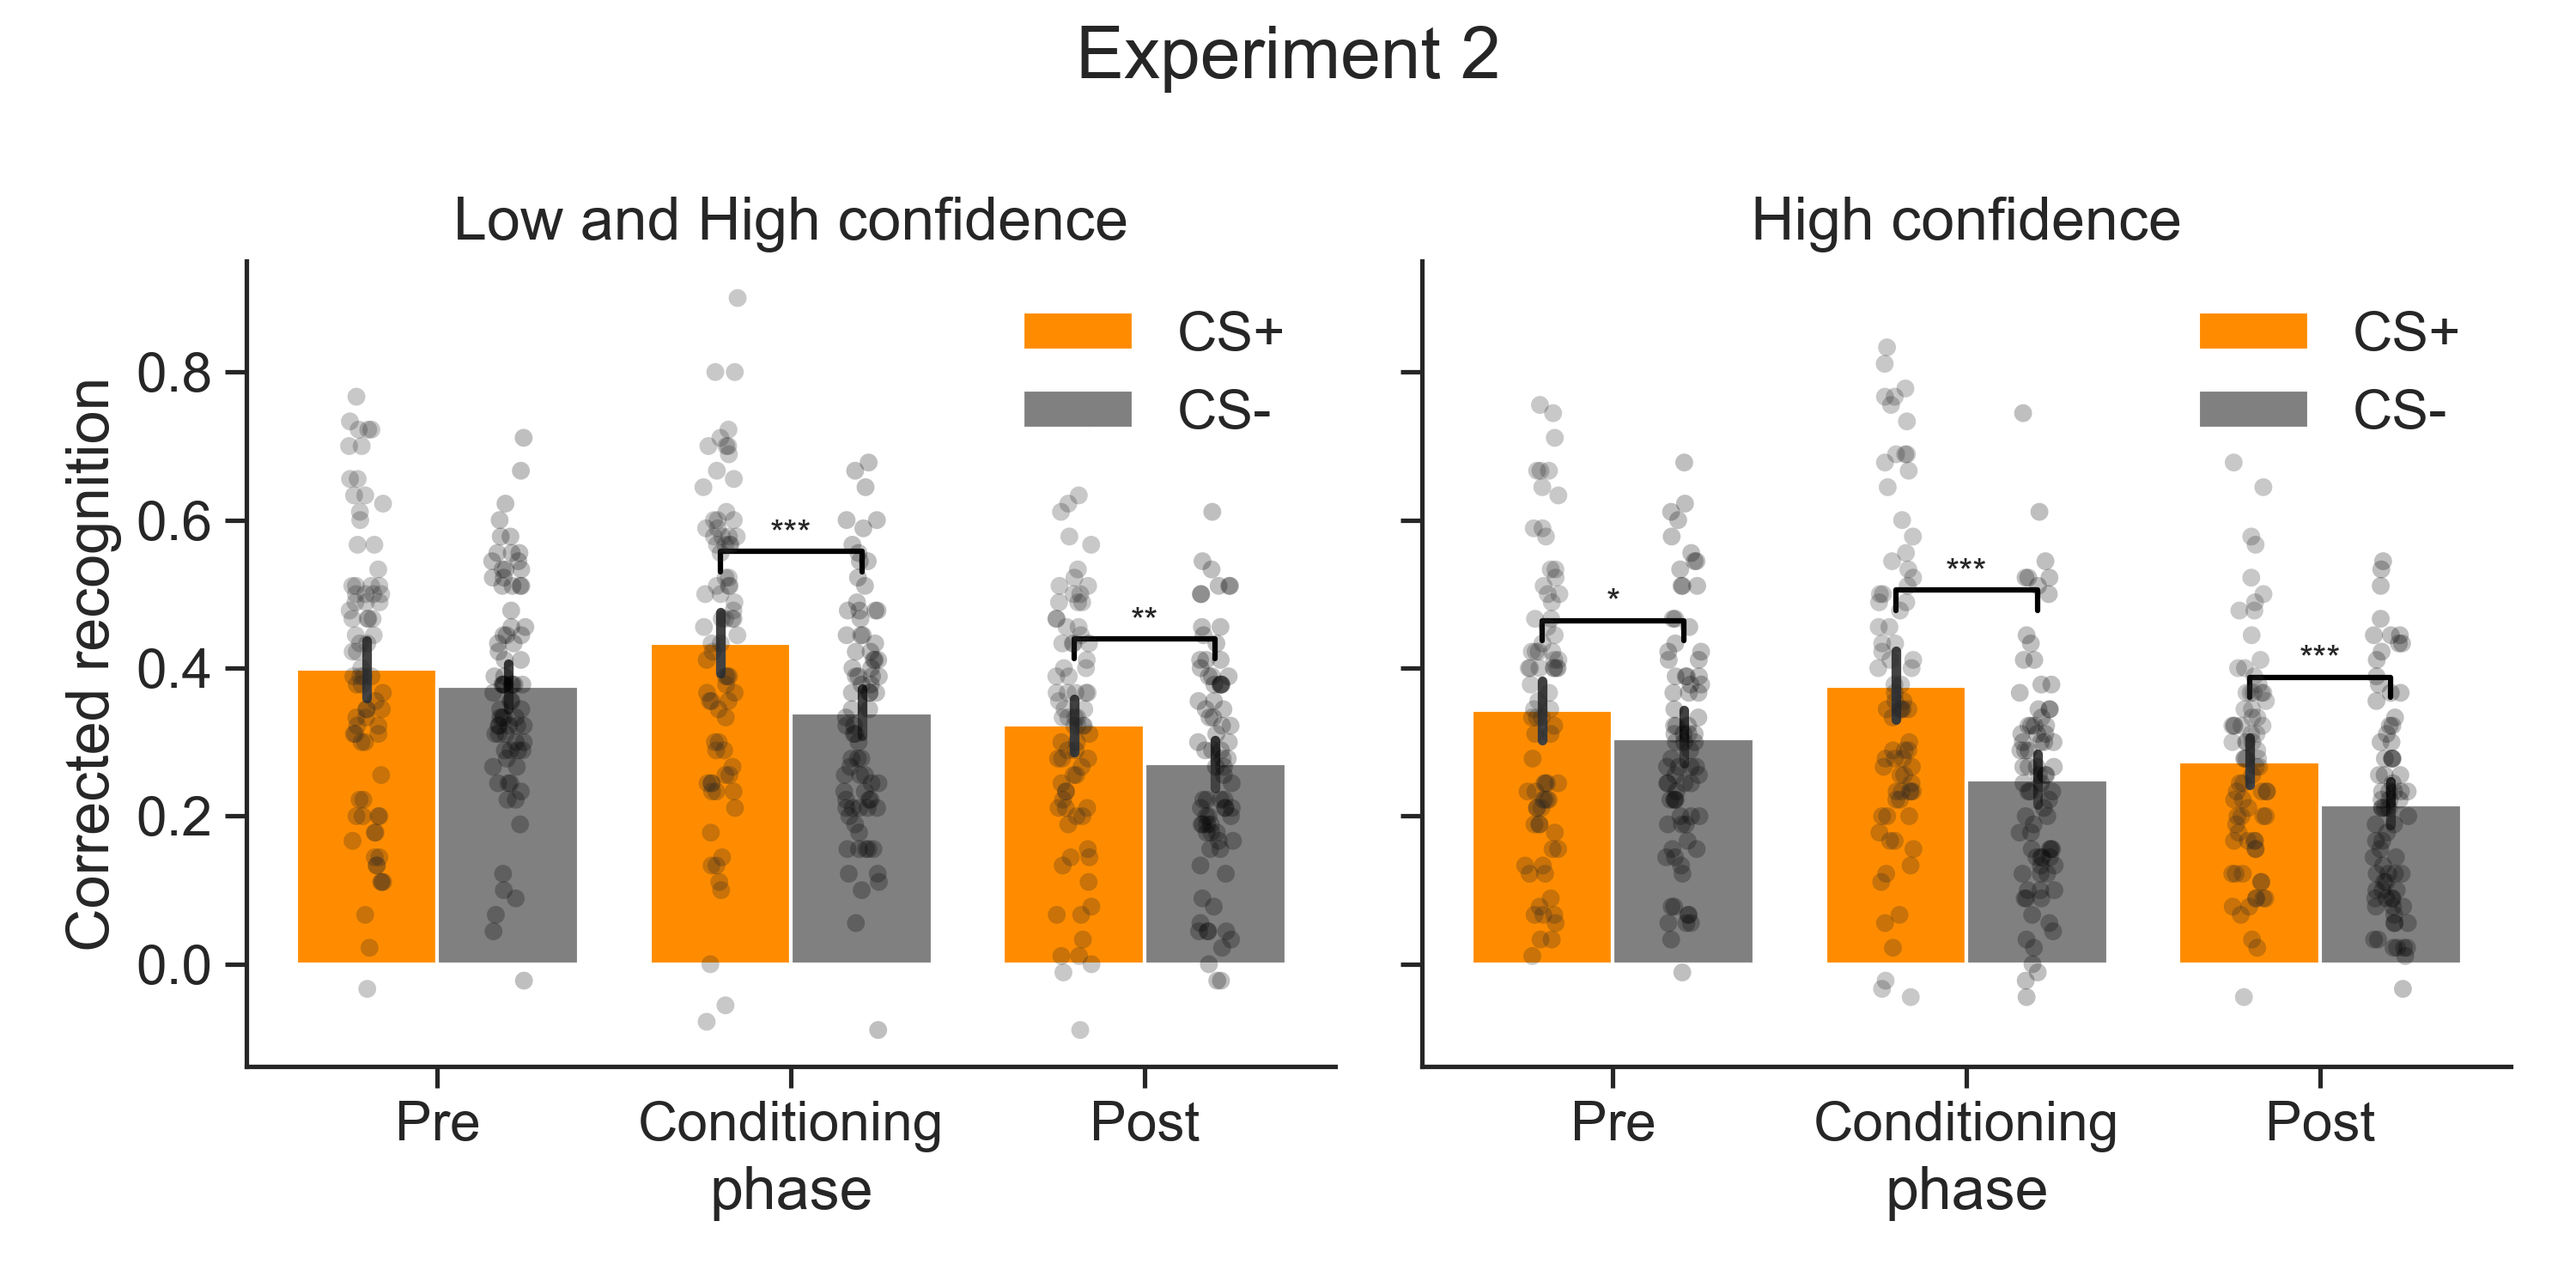
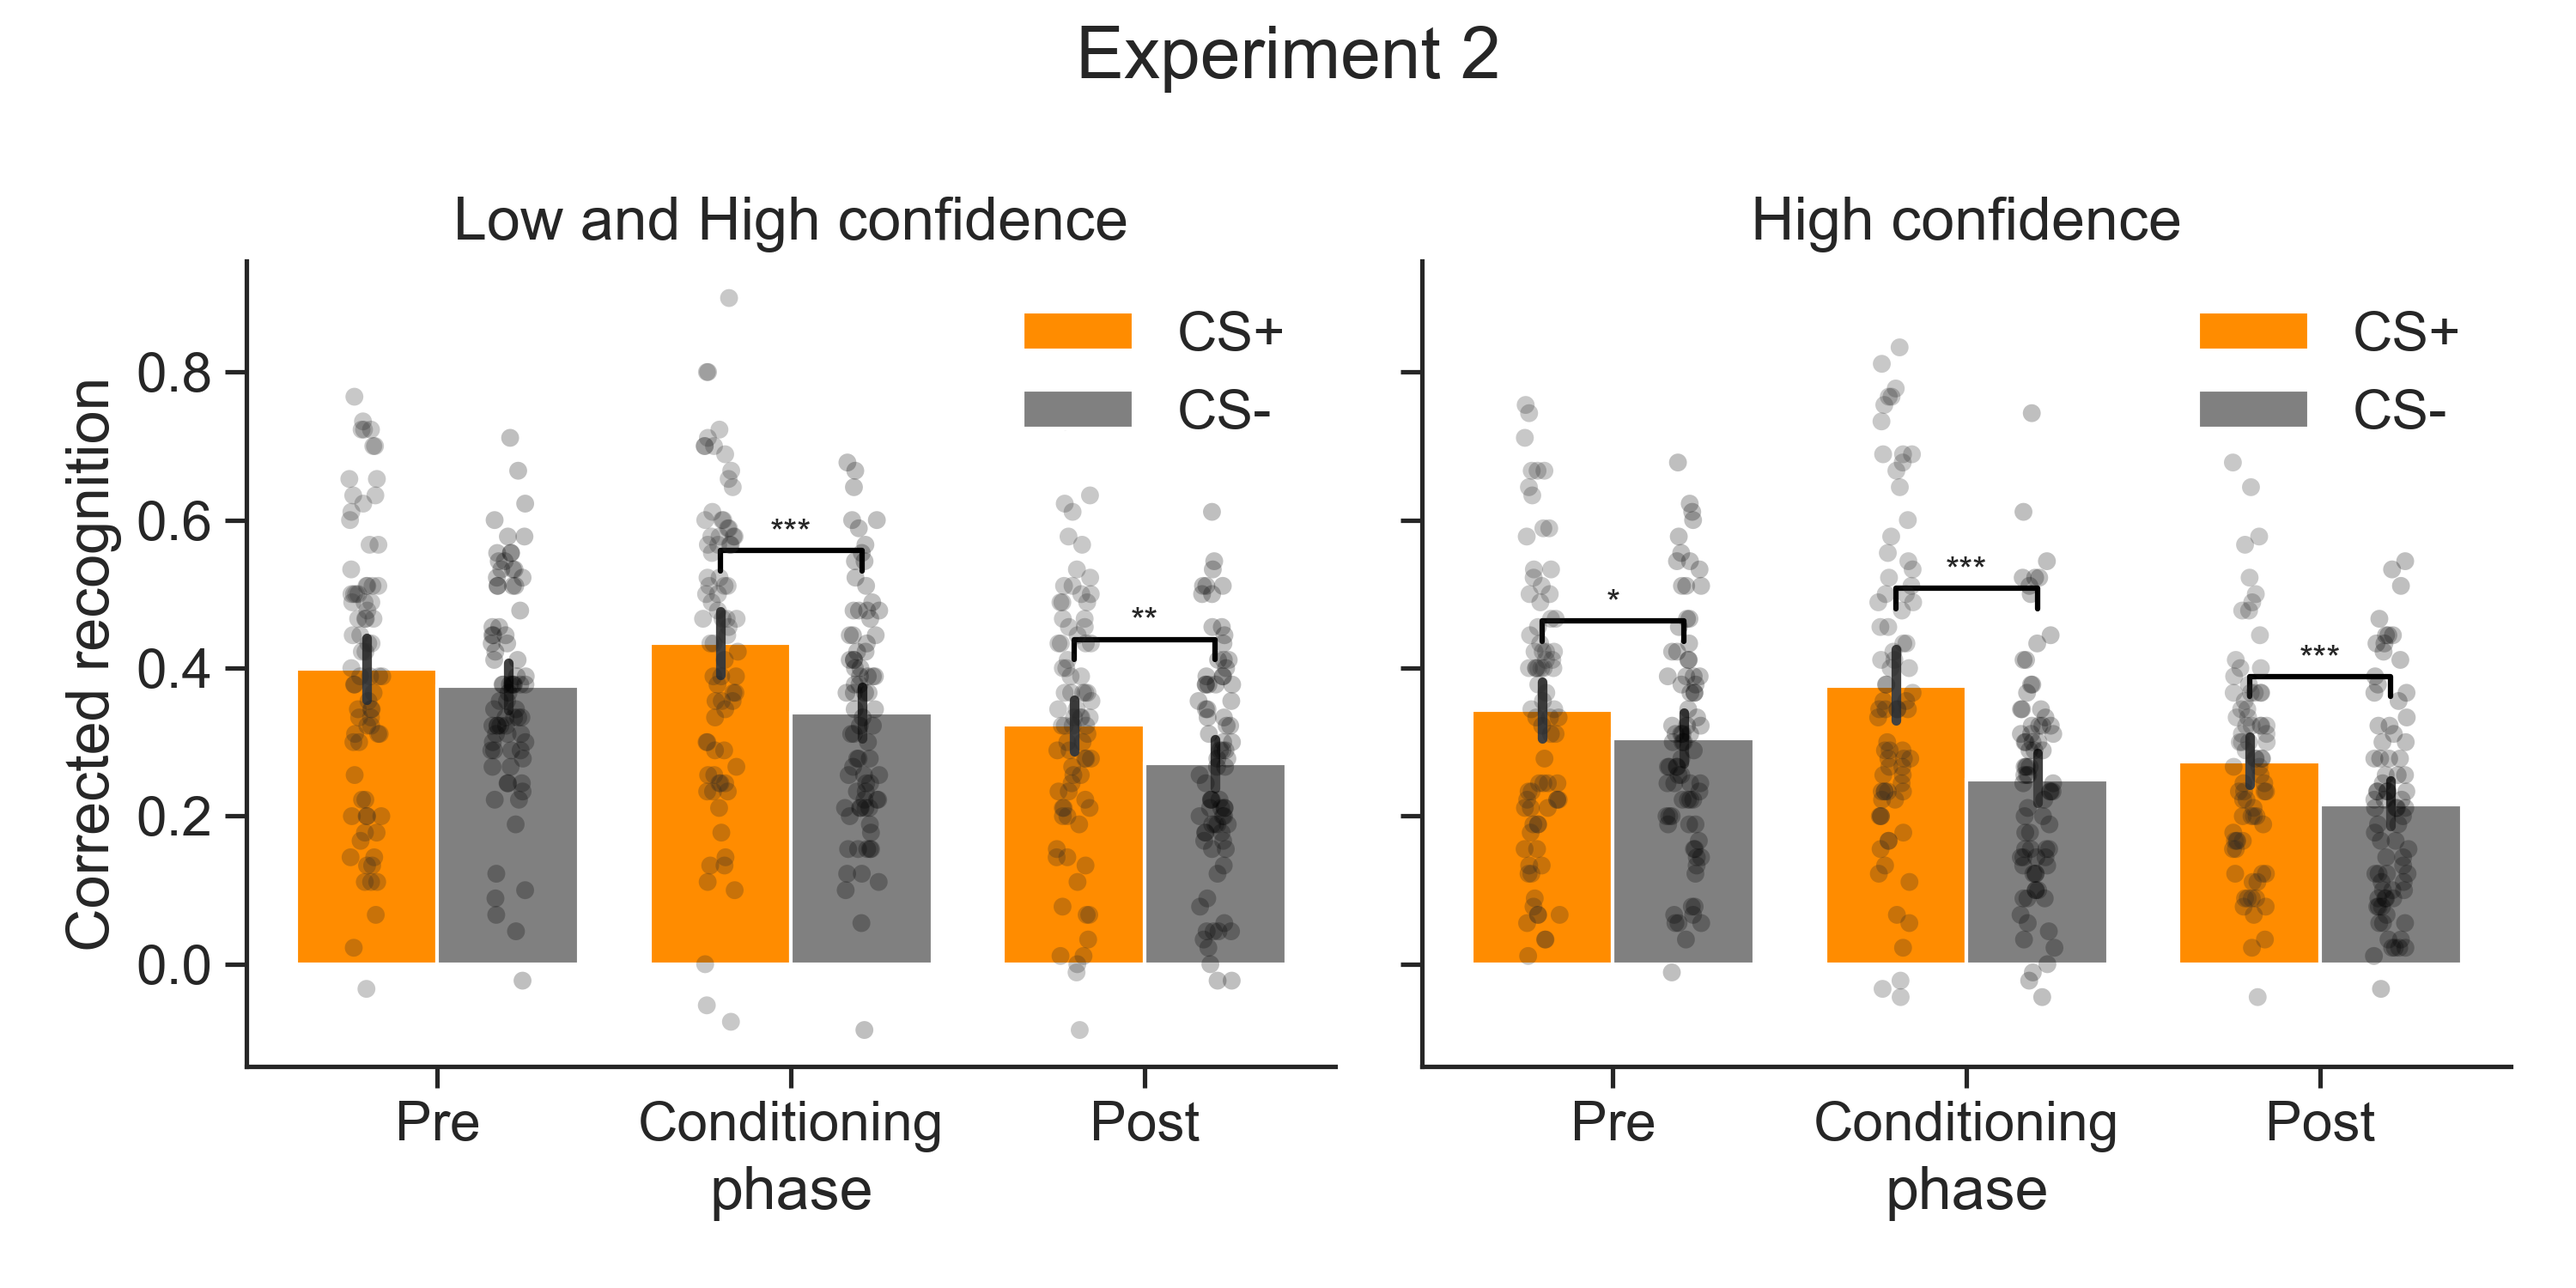
outlier detection

diff --git a/analysis.py b/analysis.py
@@ -17,7 +17,7 @@ for exp in [2,3,4]:
     df['Low_and_High'] = df.buttonPressedCertainty.apply(lambda x: 1 if x in [1,2] else 0)
     df['High'] = df.buttonPressedCertainty.apply(lambda x: 1 if x in [1] else 0)
     
-    df.to_csv(f'{experiment}_data.csv')#save data out here after minimal processing
+    df.to_csv(f'{experiment}_data.csv') #save data out here after minimal processing
 
     avg = df.groupby(['phase','condition','subject'])[['Low_and_High','High']].mean() 
     hr = avg.loc[([1,2,3]),].reset_index().set_index(['subject','condition','phase']).sort_index() #hit rate is rate of "old" responses for old items
@@ -25,6 +25,7 @@ for exp in [2,3,4]:
 
     cr = (hr - fa).reset_index().set_index(['condition','subject']).sort_index() #corrected recognition is hit rate - false alarm rate
 
+    '''normality check for both'''
     normality = pg.normality(cr).loc[['Low_and_High','High']].reset_index().rename(columns={'index':'confidence'})
     pg.print_table(normality,floatfmt=".2e",tablefmt="github")
     normality.to_csv(f'stats/{experiment}_normality_check.csv')
@@ -75,5 +76,45 @@ for exp in [2,3,4]:
     plt.suptitle(f'Experiment {experiment.split("_")[-1]}')
     plt.tight_layout()
     plt.savefig(f'figures/{experiment}_results.png')
+    
+    print('press a key to continue to outlier detection')
+    input()
+    
+    '''next we look at boxplot of the CS+ vs. CS- difference in each phase to identify outliers'''
+    diff = cr.reset_index().set_index(['condition','phase','subject']).sort_index() #corrected recognition is hit rate - false alarm rate
+    diff = diff.loc['CS+'] - diff.loc['CS-']
+
+    cr = cr.reset_index().set_index(['phase','condition','subject']).sort_index()
+    fig, ax = plt.subplots(1,2,sharey=True,figsize=(10,5))
+    for c, conf in enumerate(['Low_and_High','High']):
+        conf_str = conf.replace('_',' ')
+        sns.boxplot(data=diff.reset_index(),x='phase',y=conf,color='grey',ax=ax[c],saturation=1)
+        # sns.stripplot(data=cr.reset_index(),x='phase',y=conf,hue='condition',dodge=True,color='black',ax=ax[c],alpha=.25)
+        ax[c].set_xticklabels(['Pre','Conditioning','Post'])
+        ax[c].set_ylabel('Corrected recognition\nCS+ - CS-') if c == 0 else ax[c].set_ylabel('')
+        ax[c].set_title(f'{conf_str} confidence')
+
+        '''get the subject number and phase of each outlier'''
+        outliers = {phase:identify_outliers(diff.loc[phase,conf]) for phase in [1,2,3]}
+        tstats = {}
+        for phase in [1,2,3]:
+            if len(outliers[phase]) > 0:
+                tstats[phase] = pg.ttest(cr.drop(outliers[phase],level='subject').loc[(phase,'CS+'),conf], cr.drop(outliers[phase],level='subject').loc[(phase,'CS-'),conf], paired=True)
+            else:
+                tstats[phase] = pg.ttest(cr.loc[(phase,'CS+'),conf], cr.loc[(phase,'CS-'),conf], paired=True)
+            tstats[phase]['phase'] = phase
+        tstats = pd.concat(tstats.values()).reset_index()[['phase','T','dof','tail','p-val','cohen-d','BF10']]
+        tstats['sig'] = tstats['p-val'].apply(p_convert)
+        tstats['BF10'] = tstats['BF10'].astype(float) * 2 # paper uses 1-sided BF10 values
+        print(f'{conf_str} confidence corrected recognition CS+ vs. CS- ttests without outliers')
+        pg.print_table(tstats,floatfmt='.2e',tablefmt='github')
+        tstats.to_csv(f'stats/{experiment}_{conf}_confidence_no_outliers_ttest_stats.csv',index=True)
+
+    plt.suptitle(f'Experiment {experiment.split("_")[-1]}')
+    plt.tight_layout()
+    plt.savefig(f'figures/{experiment}_diff_boxplot.png')
+
+
+
     print('press a key to continue to the next experiment')
     input()

diff --git a/config.py b/config.py
@@ -2,9 +2,13 @@ import os
 import pandas as pd
 import pingouin as pg
 import seaborn as sns
+import numpy as np
 import matplotlib.pyplot as plt
+
 from matplotlib import rcParams
 from matplotlib.patches import Patch
+from scipy.stats import iqr
+
 '''settings'''
 sns.set_context('notebook',font_scale=1.4)
 sns.set_style('ticks', {'axes.spines.right':False, 'axes.spines.top':False})
@@ -15,7 +19,14 @@ cpal = ['darkorange','grey']
 legend_elements = [Patch(facecolor=cpal[0],edgecolor=None,label='CS+'),
                    Patch(facecolor=cpal[1],edgecolor=None,label='CS-')]
 
-p_convert = lambda pval: "*" * sum([ pval < cutoff for cutoff in [.05,.01,.001] ]) #converts pval to asterisks
+def p_convert(pval):  #converts pval to asterisks
+    if pval < .05:
+        return "*" * sum([ pval < cutoff for cutoff in [.05,.01,.001] ])
+    elif pval < .1:
+        return '~'
+    else:
+        return ''
+
 def paired_barplot_annotate_brackets(txt, x_tick, height, y_lim, dh=.05, barh=.05, fs=10, maxasterix=None, ax=None):
     """ 
     Annotate barplot with p-values.
@@ -70,3 +81,22 @@ def paired_barplot_annotate_brackets(txt, x_tick, height, y_lim, dh=.05, barh=.0
         kwargs['fontsize'] = fs
 
     ax.text(*mid, text, **kwargs)
+
+def identify_outliers(x):
+    """Takes in array x, and identifies outliers.
+    Assumes that the index is the subject number.
+    Outliers are defined by data that are beyond
+    1.5*Inter Quartile Range in either direction. 
+    """
+    outliers = np.array([])
+
+    IQR = iqr(x)
+    low_cut = np.percentile(x,25) - 1.5*IQR
+    high_cut = np.percentile(x,75) + 1.5*IQR
+
+    for sub in x.index:
+        if x.loc[sub] < low_cut or x.loc[sub] > high_cut:
+            # outliers = np.append(outliers,np.asarray(x == i).nonzero()[0])
+            outliers = np.append(outliers,sub)
+
+    return outliers

diff --git a/README.md b/README.md
@@ -49,6 +49,25 @@ Replicating analyses for this project: https://osf.io/qpm3t/
 |       2 | Wilcoxon | 2.90e-07 | 6.79e-01 | ***   |
 |       3 | Wilcoxon | 3.61e-04 | 6.19e-01 | ***   |
 
+## Identifying outliers in the CS+ vs. CS- difference 
+<p align="center">
+    <img src="figures/Exp_2_diff_boxplot.png" width="90%" alt="Experiment 2 boxplot" /><br>
+</p>
+
+### Low and High confidence ttests without ouliers
+|   phase |        T |   dof | tail      |    p-val |   cohen-d |     BF10 | sig   |
+|---------|----------|-------|-----------|----------|-----------|----------|-------|
+|       1 | 1.76e+00 |    76 | two-sided | 8.19e-02 |  1.74e-01 | 1.09e+00 | ~     |
+|       2 | 4.89e+00 |    79 | two-sided | 5.21e-06 |  5.23e-01 | 6.22e+03 | ***   |
+|       3 | 3.88e+00 |    72 | two-sided | 2.28e-04 |  3.34e-01 | 1.92e+02 | ***   |
+
+### High confidence ttests without outliers
+|   phase |        T |   dof | tail      |    p-val |   cohen-d |     BF10 | sig   |
+|---------|----------|-------|-----------|----------|-----------|----------|-------|
+|       1 | 3.23e+00 |    77 | two-sided | 1.80e-03 |  2.87e-01 | 2.88e+01 | **    |
+|       2 | 6.08e+00 |    79 | two-sided | 4.10e-08 |  6.86e-01 | 6.06e+05 | ***   |
+|       3 | 3.88e+00 |    79 | two-sided | 2.12e-04 |  4.09e-01 | 1.99e+02 | ***   |
+
 ---
 # Experiment 3
 <p align="center">
@@ -75,7 +94,7 @@ Low and High confidence corrected recognition CS+ vs. CS- ttests
 |---------|----------|-------|-----------|----------|-----------|----------|-------|
 |       1 | 1.73e-01 |    77 | two-sided | 8.63e-01 |  1.89e-02 | 2.54e-01 |       |
 |       2 | 6.60e+00 |    77 | two-sided | 4.78e-09 |  7.74e-01 | 4.73e+06 | ***   |
-|       3 | 1.90e+00 |    77 | two-sided | 6.07e-02 |  1.90e-01 | 1.38e+00 |       |
+|       3 | 1.90e+00 |    77 | two-sided | 6.07e-02 |  1.90e-01 | 1.38e+00 | ~     |
 
 ## High confidence
 ### Anova
@@ -97,7 +116,26 @@ Low and High confidence corrected recognition CS+ vs. CS- ttests
 |---------|----------|----------|----------|-------|
 |       1 | Wilcoxon | 1.41e-01 | 4.72e-01 |       |
 |       2 | Wilcoxon | 2.74e-06 | 6.96e-01 | ***   |
-|       3 | Wilcoxon | 7.43e-02 | 5.38e-01 |       |
+|       3 | Wilcoxon | 7.43e-02 | 5.38e-01 | ~     |
+
+## Identifying outliers in the CS+ vs. CS- difference 
+<p align="center">
+    <img src="figures/Exp_3_diff_boxplot.png" width="90%" alt="Experiment 3 boxplot" /><br>
+</p>
+
+### Low and High confidence ttests without ouliers
+|   phase |        T |   dof | tail      |    p-val |   cohen-d |     BF10 | sig   |
+|---------|----------|-------|-----------|----------|-----------|----------|-------|
+|       1 | 1.73e-01 |    77 | two-sided | 8.63e-01 |  1.89e-02 | 2.54e-01 |       |
+|       2 | 6.60e+00 |    77 | two-sided | 4.78e-09 |  7.74e-01 | 4.73e+06 | ***   |
+|       3 | 1.90e+00 |    77 | two-sided | 6.07e-02 |  1.90e-01 | 1.38e+00 | ~     |
+
+### High confidence ttests without outliers
+|   phase |         T |   dof | tail      |    p-val |   cohen-d |     BF10 | sig   |
+|---------|-----------|-------|-----------|----------|-----------|----------|-------|
+|       1 | -1.86e+00 |    75 | two-sided | 6.73e-02 |  1.72e-01 | 1.29e+00 | ~     |
+|       2 |  5.89e+00 |    76 | two-sided | 1.01e-07 |  6.88e-01 | 2.61e+05 | ***   |
+|       3 |  2.38e+00 |    75 | two-sided | 1.98e-02 |  2.36e-01 | 3.55e+00 | *     |
 
 ---
 # Experiment 4
@@ -124,7 +162,7 @@ Low and High confidence corrected recognition CS+ vs. CS- ttests
 |---------|----------|-------|-----------|----------|-----------|----------|-------|
 |       1 | 1.37e+00 |    82 | two-sided | 1.76e-01 |  1.37e-01 | 5.92e-01 |       |
 |       2 | 5.75e+00 |    82 | two-sided | 1.48e-07 |  5.77e-01 | 1.77e+05 | ***   |
-|       3 | 1.71e+00 |    82 | two-sided | 9.11e-02 |  1.65e-01 | 9.74e-01 |       |
+|       3 | 1.71e+00 |    82 | two-sided | 9.11e-02 |  1.65e-01 | 9.74e-01 | ~     |
 
 ## High confidence
 ### Anova
@@ -137,13 +175,32 @@ Low and High confidence corrected recognition CS+ vs. CS- ttests
 ### T-tests
 |   phase |        T |   dof | tail      |    p-val |   cohen-d |     BF10 | sig   |
 |---------|----------|-------|-----------|----------|-----------|----------|-------|
-|       1 | 1.73e+00 |    82 | two-sided | 8.83e-02 |  1.90e-01 | 9.98e-01 |       |
+|       1 | 1.73e+00 |    82 | two-sided | 8.83e-02 |  1.90e-01 | 9.98e-01 | ~     |
 |       2 | 7.24e+00 |    82 | two-sided | 2.15e-10 |  7.91e-01 | 9.12e+07 | ***   |
-|       3 | 1.75e+00 |    82 | two-sided | 8.41e-02 |  1.60e-01 | 1.04e+00 |       |
+|       3 | 1.75e+00 |    82 | two-sided | 8.41e-02 |  1.60e-01 | 1.04e+00 | ~     |
 
 ### Wilcoxon sign-ranked test
 |   phase | test     |    p-val |     CLES | sig   |
 |---------|----------|----------|----------|-------|
 |       1 | Wilcoxon | 1.67e-01 | 5.41e-01 |       |
 |       2 | Wilcoxon | 7.28e-09 | 7.04e-01 | ***   |
-|       3 | Wilcoxon | 9.84e-02 | 5.53e-01 |       |
+|       3 | Wilcoxon | 9.84e-02 | 5.53e-01 | ~     |
+
+## Identifying outliers in the CS+ vs. CS- difference 
+<p align="center">
+    <img src="figures/Exp_4_diff_boxplot.png" width="90%" alt="Experiment 4 boxplot" /><br>
+</p>
+
+### Low and High confidence ttests without ouliers
+|   phase |        T |   dof | tail      |    p-val |   cohen-d |     BF10 | sig   |
+|---------|----------|-------|-----------|----------|-----------|----------|-------|
+|       1 | 1.46e+00 |    80 | two-sided | 1.50e-01 |  1.38e-01 | 6.74e-01 |       |
+|       2 | 5.75e+00 |    82 | two-sided | 1.48e-07 |  5.77e-01 | 1.77e+05 | ***   |
+|       3 | 1.71e+00 |    82 | two-sided | 9.11e-02 |  1.65e-01 | 9.74e-01 | ~     |
+
+### High confidence ttests without outliers
+|   phase |        T |   dof | tail      |    p-val |   cohen-d |     BF10 | sig   |
+|---------|----------|-------|-----------|----------|-----------|----------|-------|
+|       1 | 1.60e+00 |    79 | two-sided | 1.13e-01 |  1.58e-01 | 8.40e-01 |       |
+|       2 | 7.24e+00 |    82 | two-sided | 2.15e-10 |  7.91e-01 | 9.12e+07 | ***   |
+|       3 | 1.48e+00 |    81 | two-sided | 1.41e-01 |  1.31e-01 | 6.98e-01 |       |
